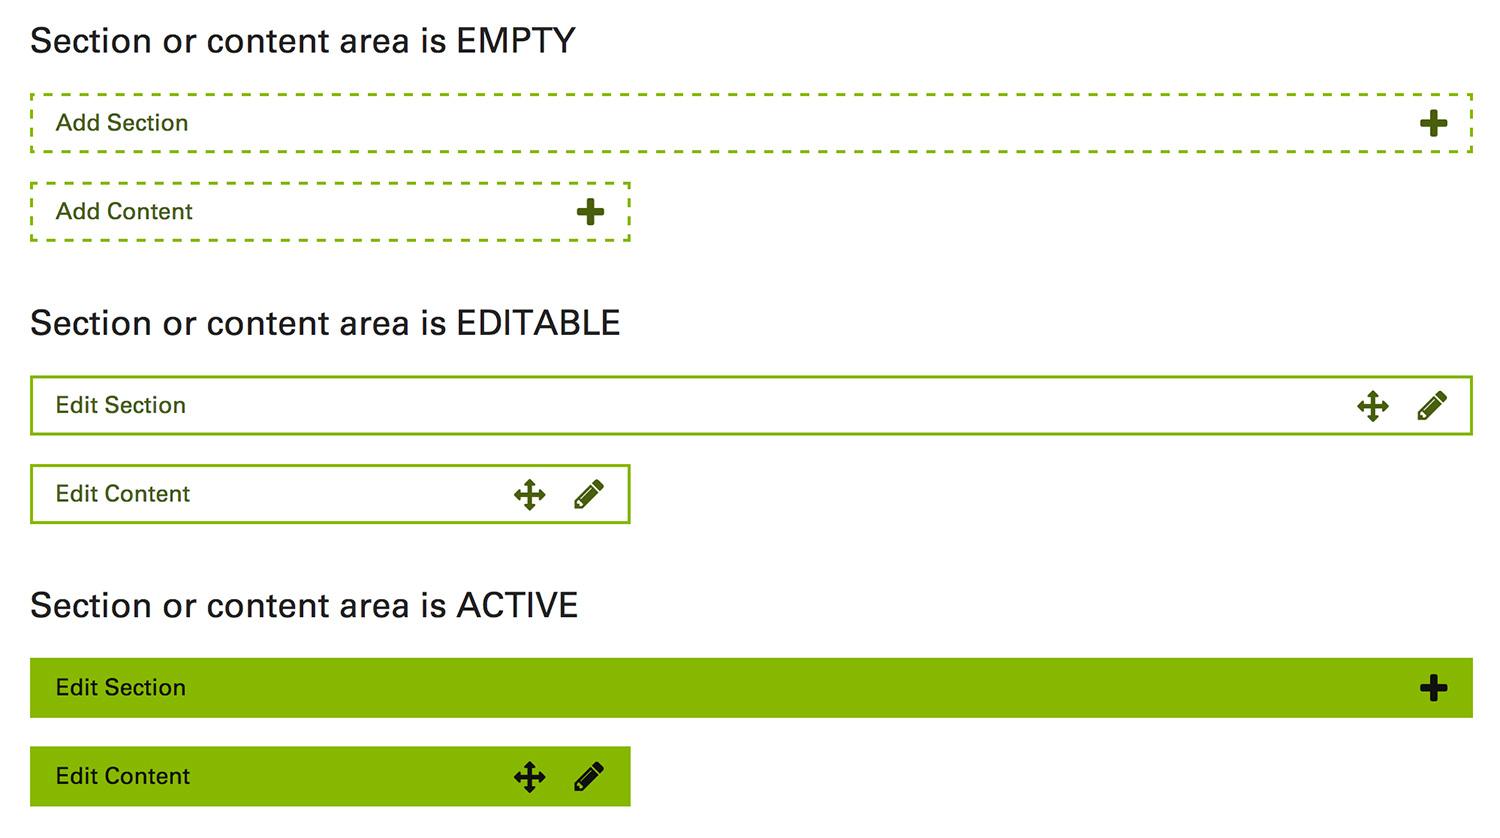
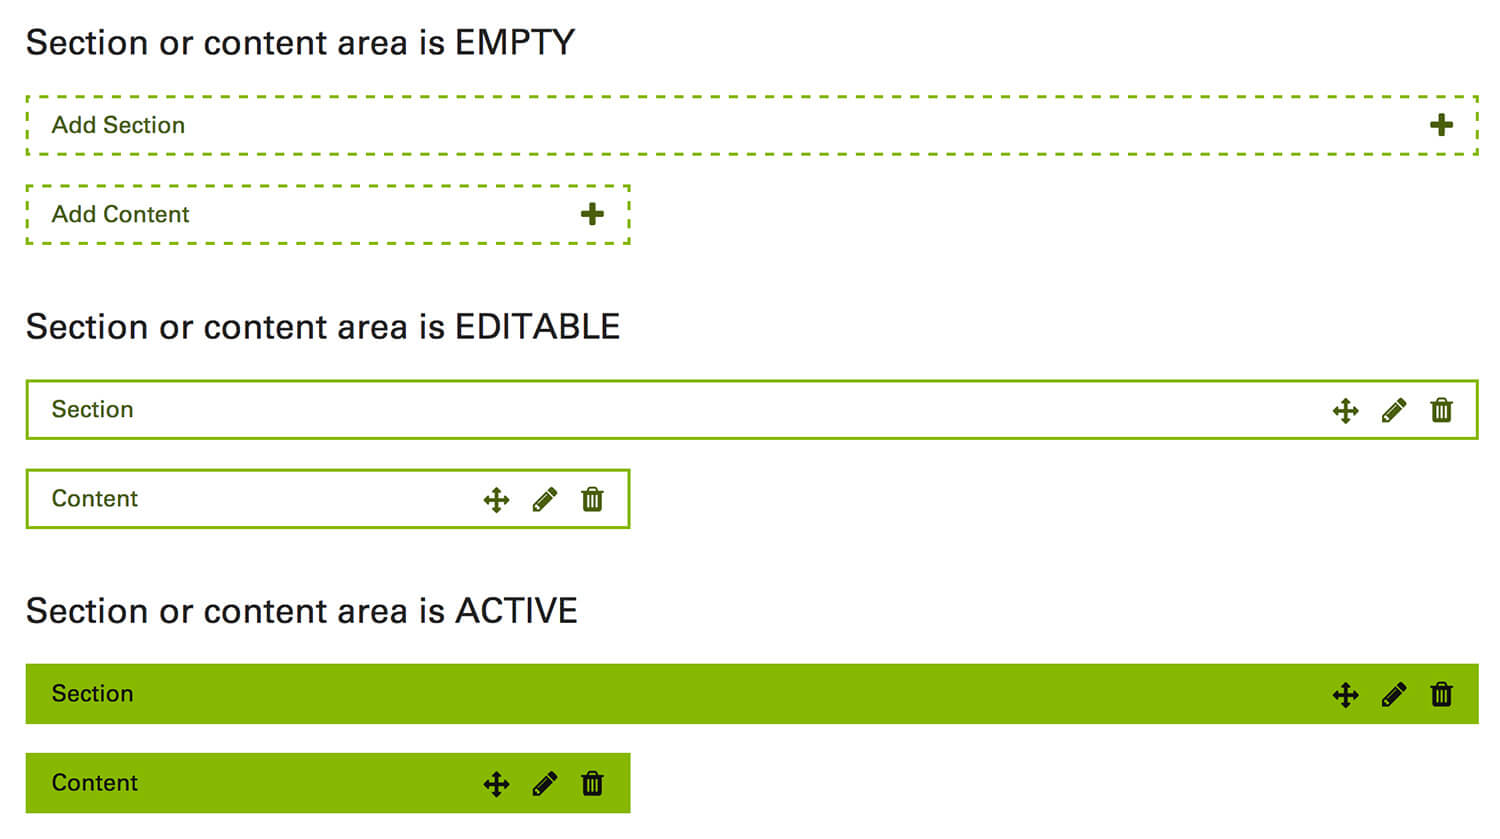
Updated screenshots and some documentation on CMS project

diff --git a/portfolio/texas-state-template.html b/portfolio/texas-state-template.html
@@ -100,12 +100,12 @@
 									<li><a href="#focus-groups">Focus groups</a></li>
 									<li><a href="#concept">Initial template concept</a></li>
 									<li><a href="#prototypes">Iterative prototypes</a></li>
+									<li><a href="#cms">CMS user experience</a></li>
 								</ul>
 							</li>
 							<li><a href="#improvements">Major improvements</a></li>
 							<li><a href="#features">Noteworthy features</a>
 								<ul>
-									<li><a href="#columns">Columns</a></li>
 									<li><a href="#images">Images</a></li>
 								</ul>
 							</li>
@@ -128,7 +128,7 @@
 				
 				<!-- <p>In early 2015 a small, cross-departmental team was formed to explore major changes. In addition to updating the template, we aimed to create a design culture that valued the web as our strongest marketing and informational asset. There were many overlapping goals, but here are some of the bigger ones:</p> -->
 				<ul>
-					<li>Add user-friendly <a href="#columns">multi-column layouts</a></li>
+					<li>Add user-friendly <a href="#cms">multi-column layouts</a></li>
 					<li>Create a responsive and accessible template wrapper</li>
 					<li>Add key graphical content types (i.e. slider, icons, buttons) and <a href="#images">photo libraries</a></li>
 					<li>Modernize <a href="texas-state-brand.html">brand elements</a> in a systematic fashion</li>
@@ -137,7 +137,7 @@
 								
 				<h2 id="process">Process</h2>
 				
-				<p>Past digital projects were largely run by the school's IT unit, with University Marketing contributing static graphics and brand oversight only. The complex scope of this endeavor called for new processes and collaboration methods, with the design side owning more aspects of the front end and CMS user experience than ever before – from <a href="#focus-groups">user interviews</a>, to hover effects and transitions, to breakpoints and <a href="#columns">application dialogs</a>. Our lead developer and I recently discussed this transition on <a href="https://responsivewebdesign.com/podcast/texas-state/">the RWD Podcast</a>.</p>
+				<p>Past digital projects were largely run by the school&#8217;s IT unit, with University Marketing contributing static graphics and brand oversight only. The complex scope of this endeavor called for new processes and collaboration methods, with the design side owning more aspects of the front end and CMS user experience than ever before – from <a href="#focus-groups">user interviews</a>, to hover effects and transitions, to breakpoints and <a href="#cms">application dialogs</a>. Our lead developer and I recently discussed this transition on <a href="https://responsivewebdesign.com/podcast/texas-state/">the RWD Podcast</a>.</p>
 				
 				<h3 id="focus-groups">Focus groups</h3>
 				
@@ -156,10 +156,10 @@
 				<div class="image-group">
 					
 					<img class="image-modal" data-featherlight="../images/screenshot-balsamiq-txst-template-main.jpg" src="../images/screenshot-balsamiq-txst-template-main.jpg" alt="Mockup showing initial template design" />
-					<p class="caption">Initial header concept mocked up in Balsamiq</p>
+					<p class="caption">Initial header concept and column-based layout mocked up in Balsamiq</p>
 					
 					<img class="image-border image-modal" data-featherlight="../images/screenshot-demo-txst-template-main.jpg" src="../images/screenshot-demo-txst-template-main.jpg" alt="Mockup showing initial template design" />
-					<p class="caption"><a href="http://edelstone.github.io/txst-template/home-1.html">Initial hifi demo</a> with background video, columns, and web fonts</p>
+					<p class="caption"><a href="http://edelstone.github.io/txst-template/home-1.html">Early hifi demo</a> with background video, columns, and web fonts</p>
 										
 				</div>
 				
@@ -177,46 +177,27 @@
 					
 				</div>
 				
-				<div id="improvements" class="productivity improvements">
-					<h2 class="productivity-header constrain">Major improvements over previous design</h2>
-					<div class="constrain multi-layout">
-						<div class="col col-1 stack">
-							<ul class="important-updates fa-ul">
-								<li><i class="fa-li fa fa-check"></i>Responsive design</li>
-								<li><i class="fa-li fa fa-check"></i>Graphical components added – slider, <a href="#images">image banners</a>, buttons, icons</li>
-								<li><i class="fa-li fa fa-check"></i>User friendly <a href="#columns">multi-column layouts</a></li>
-							</ul>
-						</div>
-						<div class="col col-2">
-							<ul class="important-updates fa-ul">
-								<li><i class="fa-li fa fa-check"></i>Strategic <a href="texas-state-brand.html">brand identity</a></li>
-								<li><i class="fa-li fa fa-check"></i>Photo libraries deployed for content creators</li>
-								<li><i class="fa-li fa fa-check"></i>HTML/CSS color and text solutions</li>
-							</ul>
-						</div>
-					</div>
-				</div>
-								
-				<h2 id="features">Noteworthy features</h2>
-				
-				<h3 id="columns">Columns</h3>
+				<h3 id="cms">CMS user experience</h3>
 				
 				<p>Our most requested feature was the ability to make multi-column layouts without the need for external tools or coding knowledge. Magnolia didn&#8217;t have this capability baked in, so we had to design and build it from scratch. To keep things simple for users, I devised a limited, understandable grid system and some corresponding nomenclature for easy reference.</p>
 				
 				<div class="image-group">
 				
 					<img class="image-modal" data-featherlight="../images/photo-column-interactions.jpg" src="../images/photo-column-interactions.jpg" alt="Sketch of the user flow when creating a CMS webpage" />
-					<p class="caption">Initial sketch of user flow for creating a multi-column webpage</p>
+					<p class="caption">Early sketch of user flow for creating a multi-column webpage</p>
 					
 					<!-- <img class="image-modal" data-featherlight="../images/screenshot-feature-txst-template-grid.jpg" src="../images/screenshot-feature-txst-template-grid.jpg" alt="Mockup showing six column layout options" />
 					<p class="caption">Photoshop rendering of grid options for internal reference</p> -->
 
 					<img class="image-border image-modal" data-featherlight="../images/screenshot-demo-txst-template-cms-bars.jpg" src="../images/screenshot-demo-txst-template-cms-bars.jpg" alt="Sketch mockup showing content outlines" />
-					<p class="caption">Section and content bars in various states</p>
+					<p class="caption">Demonstrating section and content bars in various states</p>
 					
 					<img class="image-border image-modal" data-featherlight="../images/product-magnolia-column-selection.jpg" src="../images/product-magnolia-column-selection.jpg" alt="Sketch mockup showing visual column selection dialog" />
-					<p class="caption">Sketch mockup visualizing the column selection dialog</p>
+					<p class="caption">Visualizing the column selection dialog in higher fidelity</p>
 				
+					<img class="image-modal" data-featherlight="../images/screenshot-live-txst-template-cms-sections.jpg" src="../images/screenshot-live-txst-template-cms-sections.jpg" alt="Live screenshot of empty section area" />
+					<p class="caption">Live CMS showing section creation page</p>
+					
 					<img class="image-modal" data-featherlight="../images/screenshot-live-txst-template-cms-columns.jpg" src="../images/screenshot-live-txst-template-cms-columns.jpg" alt="Live screenshot of empty 3-column layout" />
 					<p class="caption">Live CMS showing an empty 3-column layout</p>
 					
@@ -228,9 +209,31 @@
 					
 				</div>
 				
+				<div id="improvements" class="productivity improvements">
+					<h2 class="productivity-header constrain">Major improvements over previous design</h2>
+					<div class="constrain multi-layout">
+						<div class="col col-1 stack">
+							<ul class="important-updates fa-ul">
+								<li><i class="fa-li fa fa-check"></i>User friendly <a href="#cms">multi-column layouts</a></li>
+								<li><i class="fa-li fa fa-check"></i>Responsive design</li>
+								<li><i class="fa-li fa fa-check"></i>Graphical components added – slider, <a href="#images">image banners</a>, buttons, icons</li>
+							</ul>
+						</div>
+						<div class="col col-2">
+							<ul class="important-updates fa-ul">
+								<li><i class="fa-li fa fa-check"></i>Strategic <a href="texas-state-brand.html">brand identity</a></li>
+								<li><i class="fa-li fa fa-check"></i>HTML/CSS color and text solutions</li>
+								<li><i class="fa-li fa fa-check"></i>Photo libraries deployed for content creators</li>
+							</ul>
+						</div>
+					</div>
+				</div>
+								
+				<h2 id="features">Noteworthy features</h2>
+				
 				<h3 id="images">Images</h3>
 				
-				<p>Texas State is known as “<a href="https://twitter.com/txst/status/761356300647137281">the most beautiful campus in Texas</a>” and we wanted our websites to reflect that. So we incorporated background images into the header design, and added key components like a <a href="http://www.styleguide.txstate.edu/patterns.html#slider">customizable slider</a>, <a href="http://www.styleguide.txstate.edu/patterns.html#buttons">buttons</a>, and <a href="http://www.styleguide.txstate.edu/patterns.html#icon-text">iconography</a>. To support the image needs these additions generated, our photographer and I curated a library of unmistakable <a href="http://www.styleguide.txstate.edu/patterns.html#banners">Texas State banners</a> and several other <a href="http://www.umarketing.txstate.edu/resources/photos#f36874c8a">image galleries</a> highlighting campus life, with access to the image libraries baked right into the CMS.</p>
+				<p>Texas State is known as “<a href="https://twitter.com/txst/status/761356300647137281">the most beautiful campus in Texas</a>” and we wanted our websites to reflect that. So we incorporated background images into the header design, and added key components like a <a href="http://www.styleguide.txstate.edu/patterns.html#slider">customizable slider</a>, <a href="http://www.styleguide.txstate.edu/patterns.html#buttons">buttons</a>, and <a href="http://www.styleguide.txstate.edu/patterns.html#icon-text">iconography</a>. To support the image needs these additions generated, our photographer and I curated a library of unmistakable <a href="http://www.styleguide.txstate.edu/patterns.html#banners">Texas State banners</a> and several other <a href="http://www.umarketing.txstate.edu/resources/photos#f36874c8a">image galleries</a> highlighting campus life, with access to these libraries baked right into the CMS.</p>
 				
 				<div class="image-group">
 				

diff --git a/resume.html b/resume.html
@@ -123,7 +123,7 @@
 
 				<p>I’m proud of my accomplishments, but I know I’ve barely touched the surface of my potential. I want to get way better at this stuff, and influence lots of cool things while I’m at it.</p>
 
-				<p>My ideal future team is supportive, intelligent, realistic, funny, super creative, and design-focused, with at least a handful of folks who know that the 1980s was objectively the best decade ever. I'm particularly interested in products and tools that aim to improve democracy or human health. </p>
+				<p>My ideal future team is supportive, intelligent, realistic, funny, super creative, and design-focused, with at least a handful of folks who know that the 1980s was objectively the best decade ever. I&#8217;m particularly interested in products and tools that aim to improve democracy or human health. </p>
 				
 				<p>I see myself at a small or medium-sized organization, with a culture that values individual contributors, trust, and autonomy. Ideally they rally around a mature(ish) product or business initiative their users love, but still embrace innovation and experimentation. Pushing new things into the real world regularly, and being able to influence broader business decisions, would be awesome. (Bonus points for remote-first culture or donation matching).</p>
 				

diff --git a/portfolio/index.html b/portfolio/index.html
@@ -55,7 +55,7 @@
 				</div>
 				<div class="col col-2">
 					<h3 class="project-header">Texas State homepage</h3>
-					<p class="project-brief">I led the design of Texas State University&#8217;s first responsive homepage, which gets about 1.2 million pageviews each month.</p>
+					<p class="project-brief">I led the design of Texas State&#8217;s first responsive homepage, which gets about 1.2 million pageviews each month.</p>
 					<a href="texas-state-homepage.html" class="button">View project<span class="button-arrow">&#10142;</span></a>
 				</div>
 			</div>
@@ -66,7 +66,7 @@
 				</div>
 				<div class="col col-2">
 					<h3 class="project-header">Texas State CMS project</h3>
-					<p class="project-brief">400+ units utilize the CMS improvements, template, and content components I spec&#8217;d and designed from the ground up.</p>
+					<p class="project-brief">Thousands of publishers use the UX improvements, template, and content components I spec&#8217;d and designed from the ground up.</p>
 					<a href="texas-state-template.html" class="button">View project<span class="button-arrow">&#10142;</span></a>
 				</div>
 			</div>

diff --git a/about.html b/about.html
@@ -71,7 +71,7 @@
 					<div class="col col-2">
 						<ul class="important-updates fa-ul">
 							<li><i class="fa-li fa fa-check"></i><span class="inline-header">GitHub:</span> Developers can&#8217;t have all the fun. I <span class="fa-stack fa-lg fa-inline"><i style="color: #cf4d6f;" class="fa fa-heart fa-stack-1x"></i><i class="fa fa-heart-o fa-stack-1x"></i></span> open source.</li>
-							<li><i class="fa-li fa fa-check"></i><span class="inline-header">Design tools:</span> Photoshop, Balsamiq, and Keynote are my go-tos, but lately I'm enjoying Sketch and InVision too.</li>
+							<li><i class="fa-li fa fa-check"></i><span class="inline-header">Design tools:</span> Photoshop, Balsamiq, and Keynote are my go-tos, but lately I&#8217;m enjoying Sketch and InVision too.</li>
 							<li><i class="fa-li fa fa-check"></i><span class="inline-header">Writing:</span> Clever wordsmith <a href="https://goo.gl/photos/yDc39EhFz4d18jNR7">since the Reagan administration</a>; web-specific focus since 2009.</li>
 						</ul>
 					</div>

diff --git a/css/main.css b/css/main.css
@@ -154,7 +154,7 @@ a.offscreen:focus, a.offscreen:active, a.offscreen:hover {position: absolute; le
 .main-area .project-page {padding-top: 0; padding-bottom: 3rem;}
 .project {margin: 4rem auto 7rem;}
 .project .project-header {font-size: 2.2rem;}
-.project .project-brief {margin-bottom: 2.5rem; font-size: 2rem;}
+.project .project-brief {margin-bottom: 2.5rem;}
 .title-area * {position: relative;}
 .bg-overlap {background-color: #53373b;}
 .title-area {background-size: cover; background-repeat: no-repeat; background-position: 50%; position: relative; padding-top: 0; margin-top: 0; opacity: 0;}
